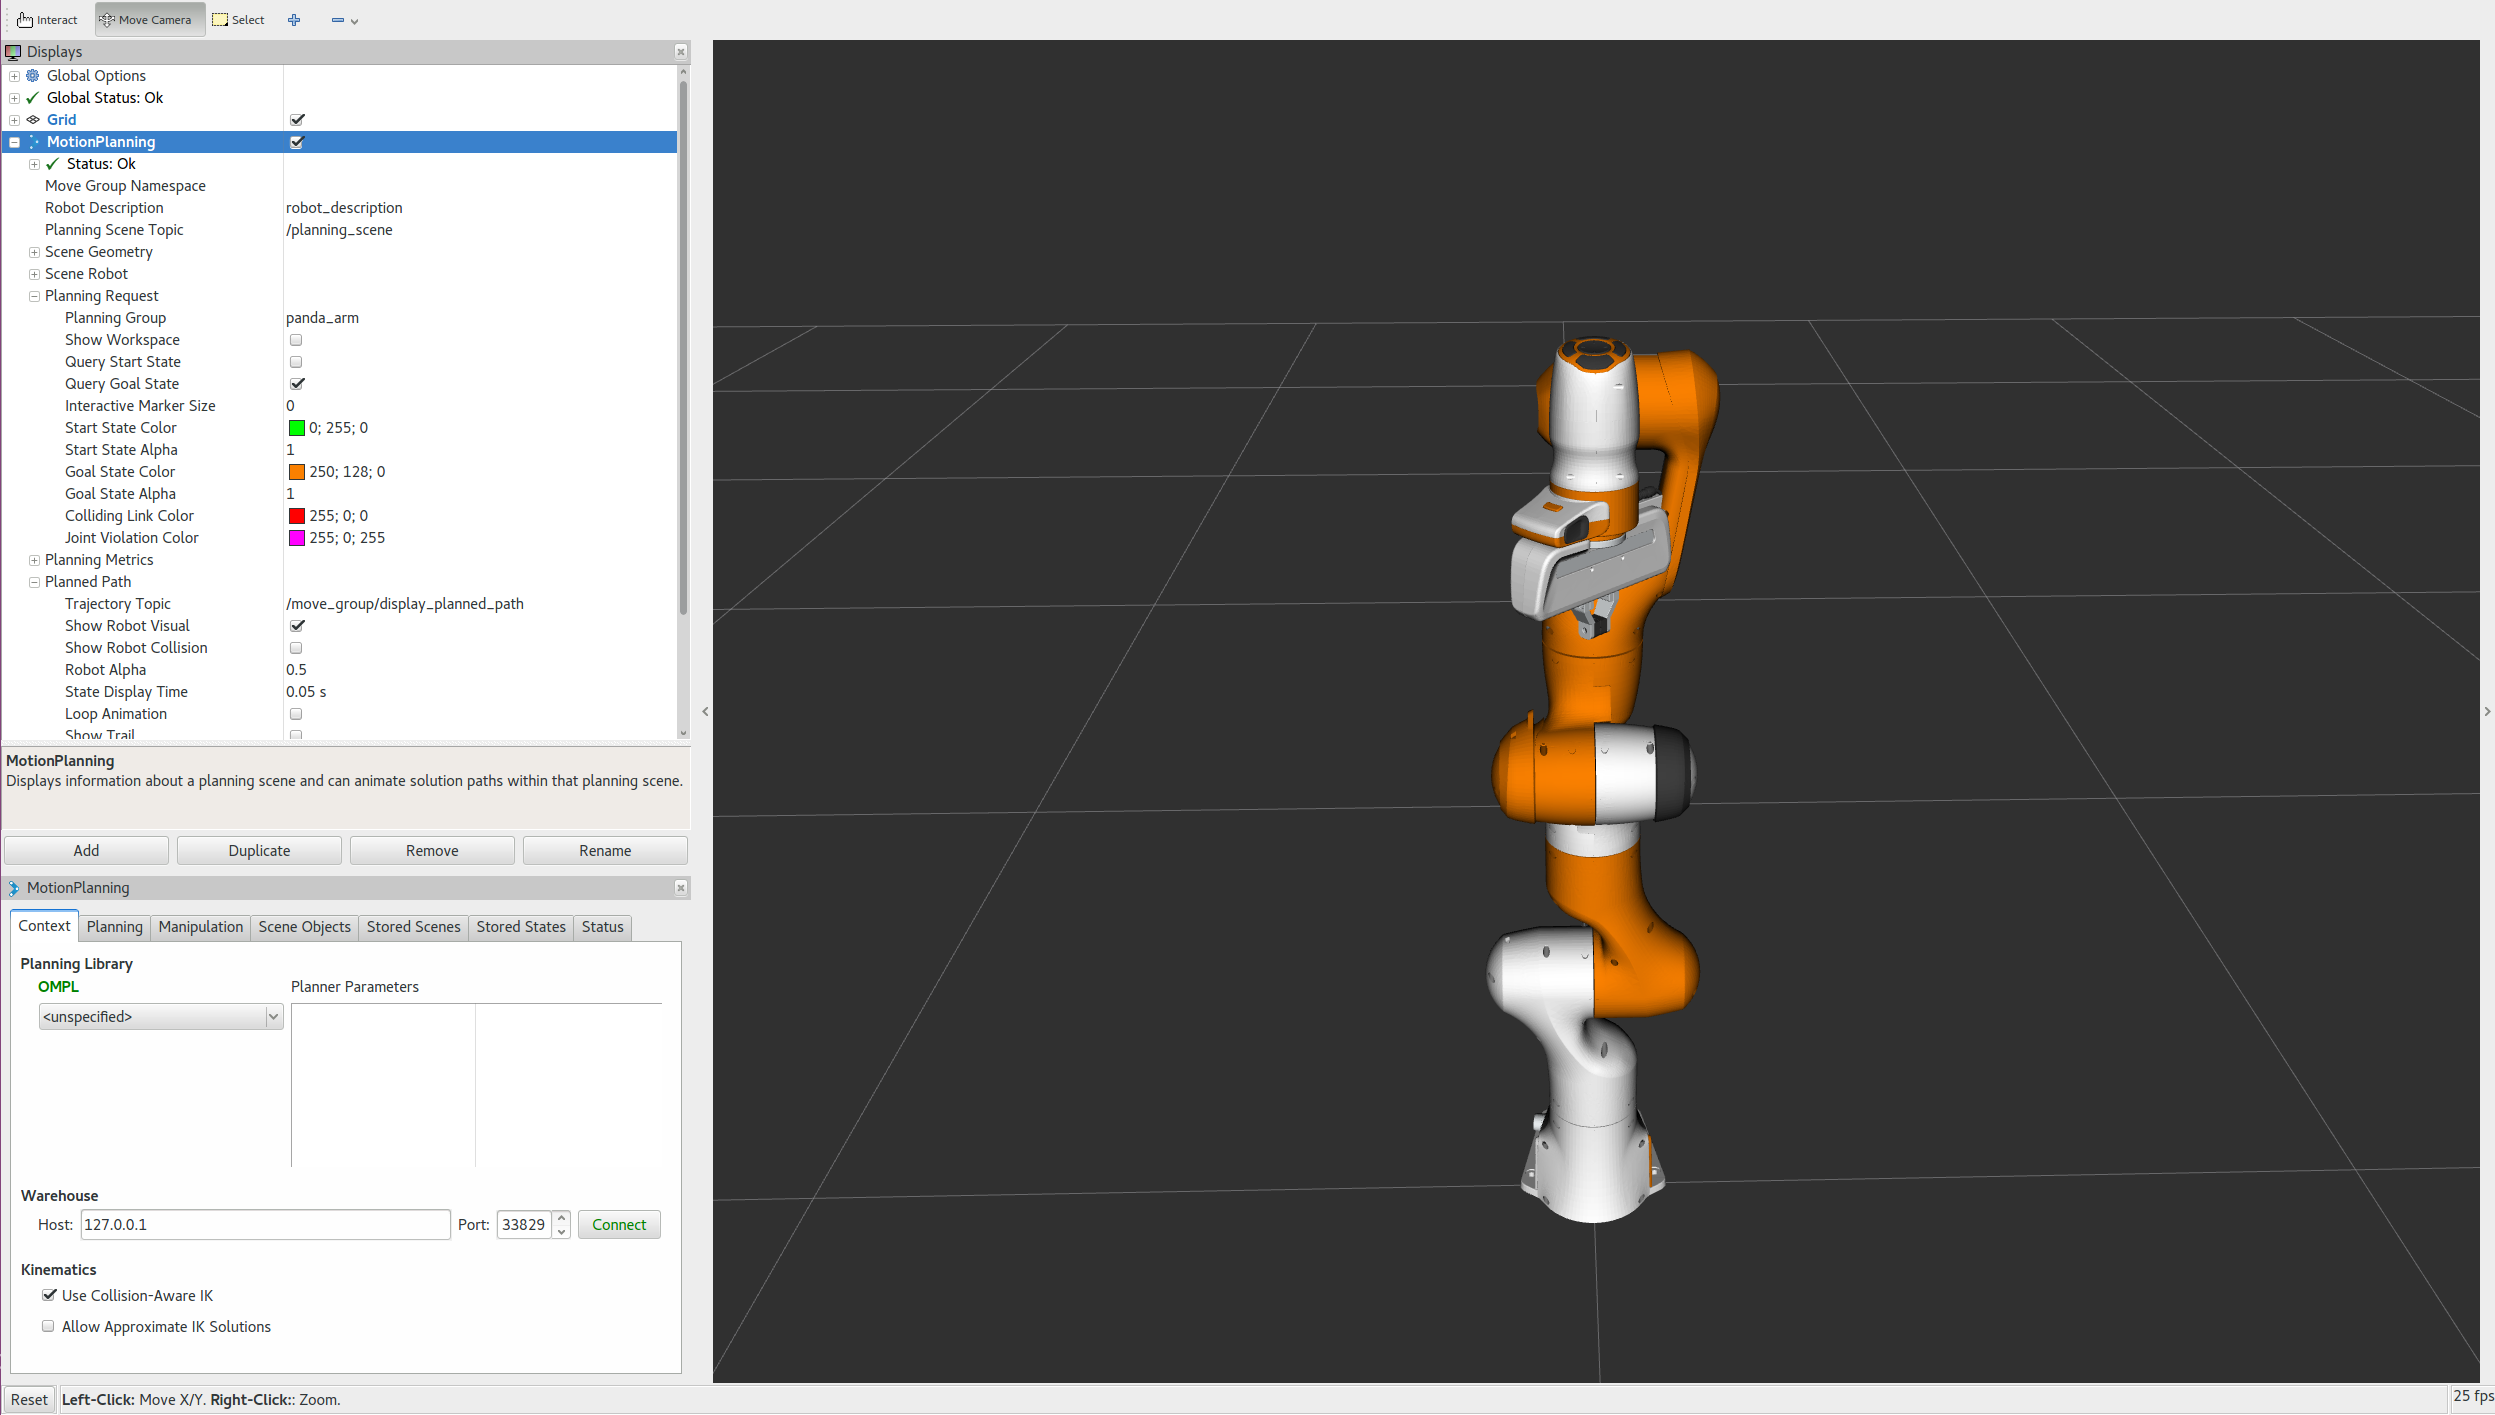
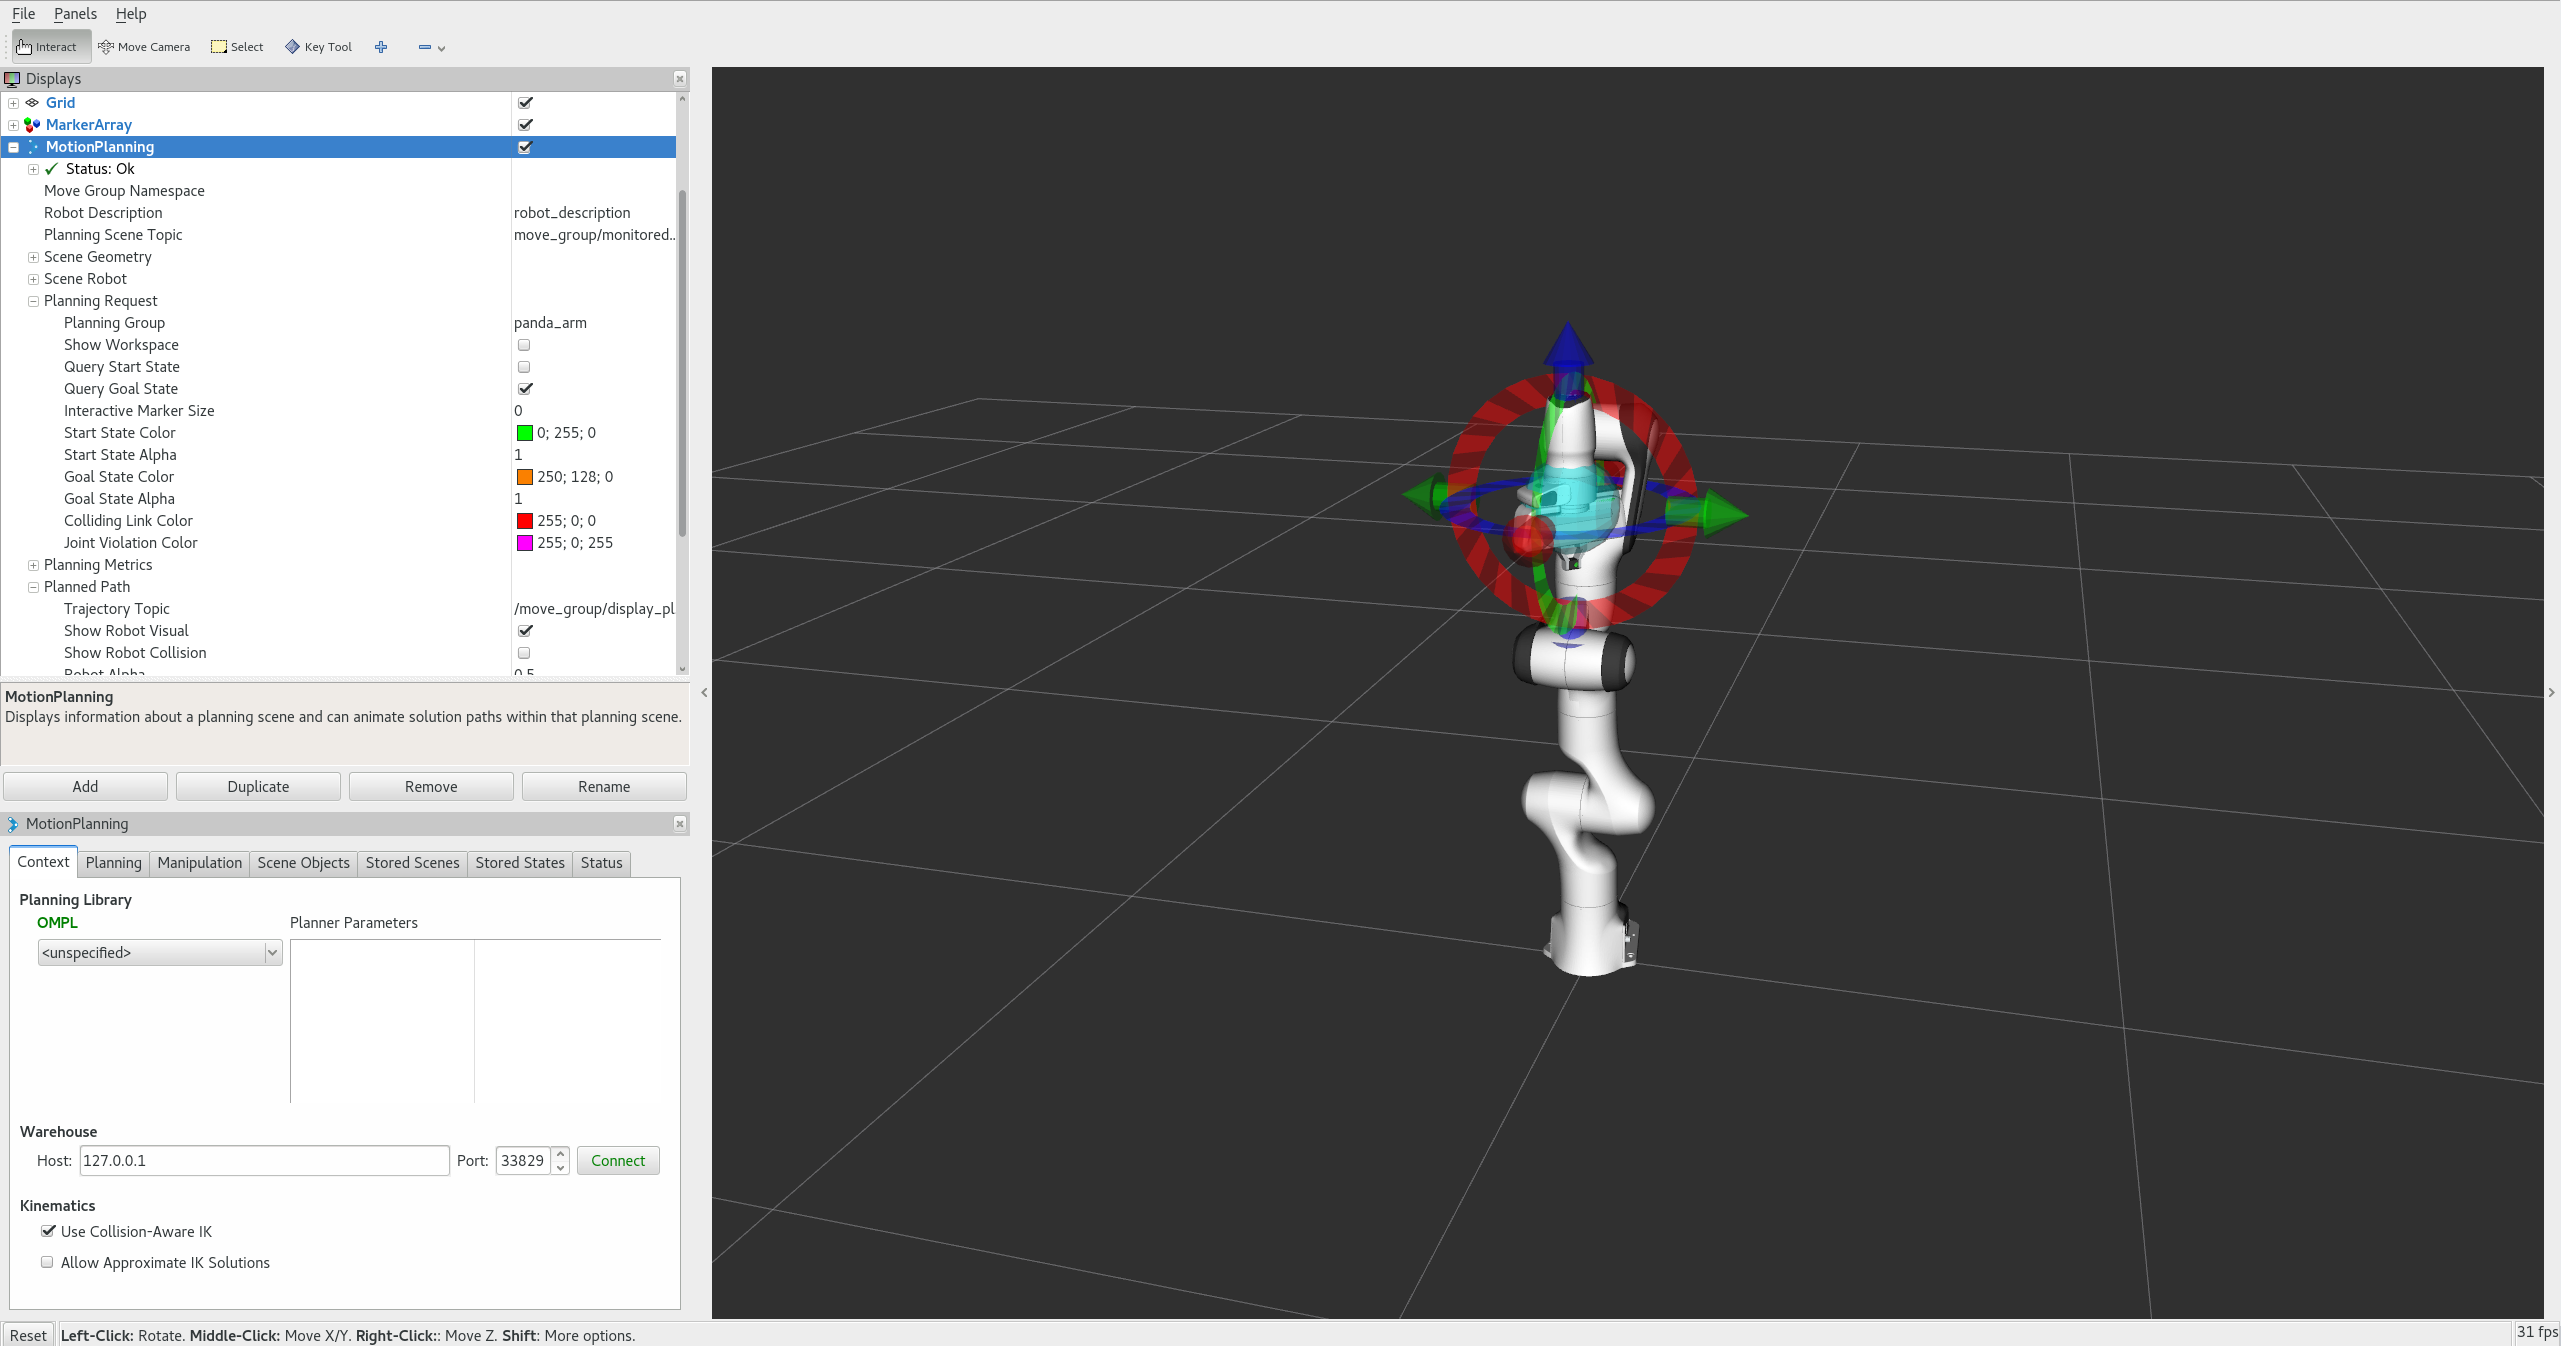
Runthrough (#42)
* visualization

* adding moveit_visual_tools depend

* install panda from src instead of deb

* minor grammar fix

* fixing maintainer list

* minor typeo

Changed region(s): [[0.0, 0.0, 1.0, 1.0], [0.5246, 0.2184, 0.7098, 0.8737], [0.9876, 0.4993, 1.0, 0.5305]]

diff --git a/doc/visualization/visualization_tutorial.rst b/doc/visualization/visualization_tutorial.rst
@@ -3,6 +3,9 @@ Visualization with the MoveIt! RViz Plugin
 
 MoveIt! comes with a plugin for the ROS Visualizer (RViz). The plugin allows you to setup scenes in which the robot will work, generate plans, visualize the output and interact directly with a visualized robot. We will explore the plugin in this tutorial.
 
+.. image:: rviz_plugin_head.png
+   :width: 700px
+
 Getting Started
 ---------------
 If you haven't already done so, make sure you've completed the steps in `Getting Started <../getting_started/getting_started.html>`_.
@@ -14,23 +17,36 @@ Step 1: Launch the Demo and Configure the Plugin
 
    roslaunch panda_moveit_config demo.launch
 
-* If you are doing this for the first time, you may have to add the Motion Planning Plugin.
+* If you are doing this for the first time, you should see an empty world in RViz and will have to add the Motion Planning Plugin:
 
-  * In the RViz Displays Tab, press *Add*
+  * You should see an empty world in RViz:
+
+  |A|
+
+  * In the RViz Displays Tab, press *Add*:
 
   * From the moveit_ros_visualization folder, choose "MotionPlanning" as the DisplayType. Press "Ok".
 
-.. image:: rviz_plugin_motion_planning_add.png
-   :width: 300px
+  |B|
 
-* In the "Global Options" tab of the "Displays" subwindow, set the **Fixed Frame** field to "/panda_link0"
+  * You should now see the Panda robot in RViz:
 
-.. image:: rviz_motion_planning.png
-   :width: 700px
+  |C|
+
+.. |A| image:: rviz_empty.png
+               :width: 700px
+
+.. |B| image:: rviz_plugin_motion_planning_add.png
+               :width: 300px
+
+.. |C| image:: rviz_start.png
+               :width: 700px
+
+* Once you have the Motion Planning Plugin loaded, we can configure it. In the "Global Options" tab of the "Displays" subwindow, set the **Fixed Frame** field to ``/panda_link0``
 
 * Now, you can start configuring the Plugin for your robot (the Panda in this case). Click on "MotionPlanning" within "Displays".
 
-  * Make sure the **Robot Description** field is set to ``robot_description``
+  * Make sure the **Robot Description** field is set to ``robot_description``.
 
   * Make sure the **Planning Scene Topic** field is set to ``/planning_scene``.
 
@@ -41,6 +57,7 @@ Step 1: Launch the Demo and Configure the Plugin
 .. image:: rviz_plugin_start.png
    :width: 700px
 
+
 Step 2: Play with the Visualized Robots
 ---------------------------------------
 There are four different overlapping visualizations:
@@ -49,40 +66,47 @@ There are four different overlapping visualizations:
 
 #. The planned path for the robot (active by default).
 
-#. Orange: The goal state for motion planning (active by default).
-
 #. Green: The start state for motion planning (disabled by default).
 
-The display states for each of these visualizations can be toggled on and off using checkboxes.
+#. Orange: The goal state for motion planning (active by default).
 
-#. The start state using the **Query Start State** checkbox in the **Planning Request** tab.
-
-#. The goal state using the **Query Goal State** checkbox in the **Planning Request** tab.
+The display states for each of these visualizations can be toggled on and off using checkboxes:
 
 #. The planning scene robot using the **Show Robot Visual** checkbox in the **Scene Robot** tab.
 
 #. The planned path using the **Show Robot Visual** checkbox in the **Planned Path** tab.
 
+#. The start state using the **Query Start State** checkbox in the **Planning Request** tab.
+
+#. The goal state using the **Query Goal State** checkbox in the **Planning Request** tab.
+
 * Play with all these checkboxes to switch on and off different visualizations.
 
 .. image:: rviz_plugin_visualize_robots.png
-   :width: 400px
+   :width: 700px
 
 Step 3: Interact with the Panda
 -------------------------------
 
-* Press **Interact** in the top menu of RViz (Note: some tools may be hidden, press **+** in the top menu to add the **Interact** tool as shown below). You should see a couple of interactive markers appear for the arm of the Panda.
+For the next steps we will want only the scene robot, start state and goal state:
 
-    * One marker (corresponding to the orange colored right arm) will be used to set the "Goal State" for motion planning. Another marker corresponding to a green colored representation of the right arm will be used to set the "Start State" for motion planning.
+#. Check the **Show Robot Visual** checkbox in the **Planned Path** tab
 
-    * You will be able to use these markers (which are attached to the tip link of each arm) to drag the arm around and change its orientation.
+#. Un-check the **Show Robot Visual** checkbox in the **Planned Path** tab
+
+#. Check the **Query Goal State** checkbox in the **Planning Request** tab.
+
+#. Check the **Query Start State** checkbox in the **Planning Request** tab.
+
+There should now be two interactive markers. One marker corresponding to the orange colored arm will be used to set the "Goal State" for motion planning and the other marker corresponding to a green colored arm are used to set the "Start State" for motion planning. If you don't see the interactive markers press **Interact** in the top menu of RViz (Note: some tools may be hidden, press **"+"** in the top menu to add the **Interact** tool as shown below).
 
 .. image:: rviz_plugin_interact.png
    :width: 700px
 
-Moving into Collision
-+++++++++++++++++++++
+You should now be able to use these markers to drag the arm around and change its orientation. Try it!
 
+Moving into collision
++++++++++++++++++++++
 Note what happens when you try to move one of the arms into collision with the other. The two links that are in collision will turn red.
 
 .. image:: rviz_plugin_collision.png
@@ -95,8 +119,7 @@ The "Use Collision-Aware IK" checkbox found within the MotionPlanning plugin all
 
 Moving out of Reachable Workspace
 +++++++++++++++++++++++++++++++++
-
-Note also what happens when you try to move an end-effector out of its reachable workspace.
+Note what happens when you try to move an end-effector out of its reachable workspace.
 
 .. image:: rviz_plugin_invalid.png
    :width: 700px
@@ -123,12 +146,11 @@ Step 4: Use Motion Planning with the Panda
 
 Introspecting Trajectory Waypoints
 ++++++++++++++++++++++++++++++++++
-
 *Available since: Indigo 0.7.10, Kinetic and Lunar 0.9.7*
 
 You can visually introspect trajectory point by point on RViz.
 
-* From "`Panel`" menu, enable "`MotionPlanning - Slider`" that is disabled by default. You'll see a new Slider panel on RViz.
+* From "`Panels`" menu, select "`MotionPlanning - Slider`". You'll see a new Slider panel on RViz.
 
 * Set your goal pose, then run `Plan`.
 
@@ -138,3 +160,28 @@ NOTE: Once you placed your EEF to a new goal, be sure to run `Plan` before runni
 
 .. image:: rviz_plugin_slider.png
    :width: 700px
+
+
+Next Steps
+----------
+
+RViz Visual Tools
++++++++++++++++++
+Many of the tutorials use ``moveit_visual_tools`` to step through a demo. Before continuing on to the next tutorials it is a good idea to enable the **RvizVisualToolsGui**.
+
+From "`Panels`" menu, select "`RvizVisualToolsGui`". You'll see the new panel added to RViz.
+
+.. image:: rviz_pannels.png
+   :width: 700px
+
+Saving Your Configuration
++++++++++++++++++++++++++
+RViz enables you to save your configuration under ``File->Save Config``. You should do this before continuing on to the next tutorials.
+
+Next Tutorials
+++++++++++++++
+* To Create your own ``robot_moveit_config`` package look at the `MoveIt! Setup Assistant tutorial. <../setup_assistant/setup_assistant_tutorial.html>`_
+
+* To use Move Group to control your robot using C++ check out the `Move Group Interface <../move_group_interface/move_group_interface_tutorial.html>`_
+
+* To use Move Group to control your robot using Python check out the `Move Group Python Interface <../move_group_python_interface/move_group_python_interface_tutorial.html>`_

diff --git a/doc/getting_started/getting_started.rst b/doc/getting_started/getting_started.rst
@@ -39,7 +39,9 @@ Within your `catkin <http://wiki.ros.org/catkin>`_ workspace, download these tut
 
 You will also need a ``panda_moveit_config`` package to follow along with these tutorials. For now we will install from Debian but later we will learn how to make our own ``robot_moveit_config`` in the `MoveIt! Setup Assistant tutorial. <../setup_assistant/setup_assistant_tutorial.html>`_: ::
 
-  sudo apt install ros-kinetic-panda-moveit-config
+  cd ~/ws_moveit/src
+  git clone https://github.com/PickNikRobotics/panda_moveit_config.git
+
 
 Build your Catkin Workspace
 ^^^^^^^^^^^^^^^^^^^^^^^^^^^
